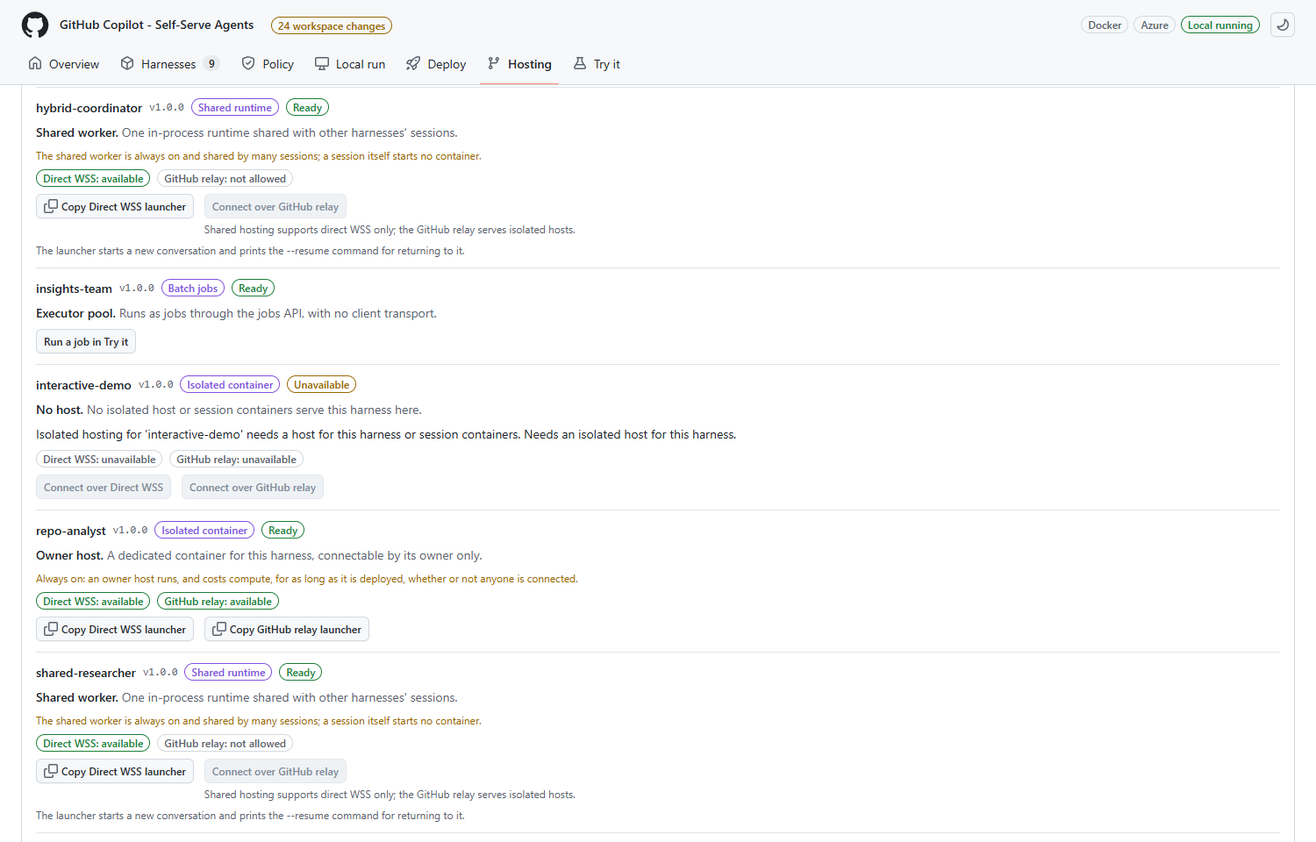
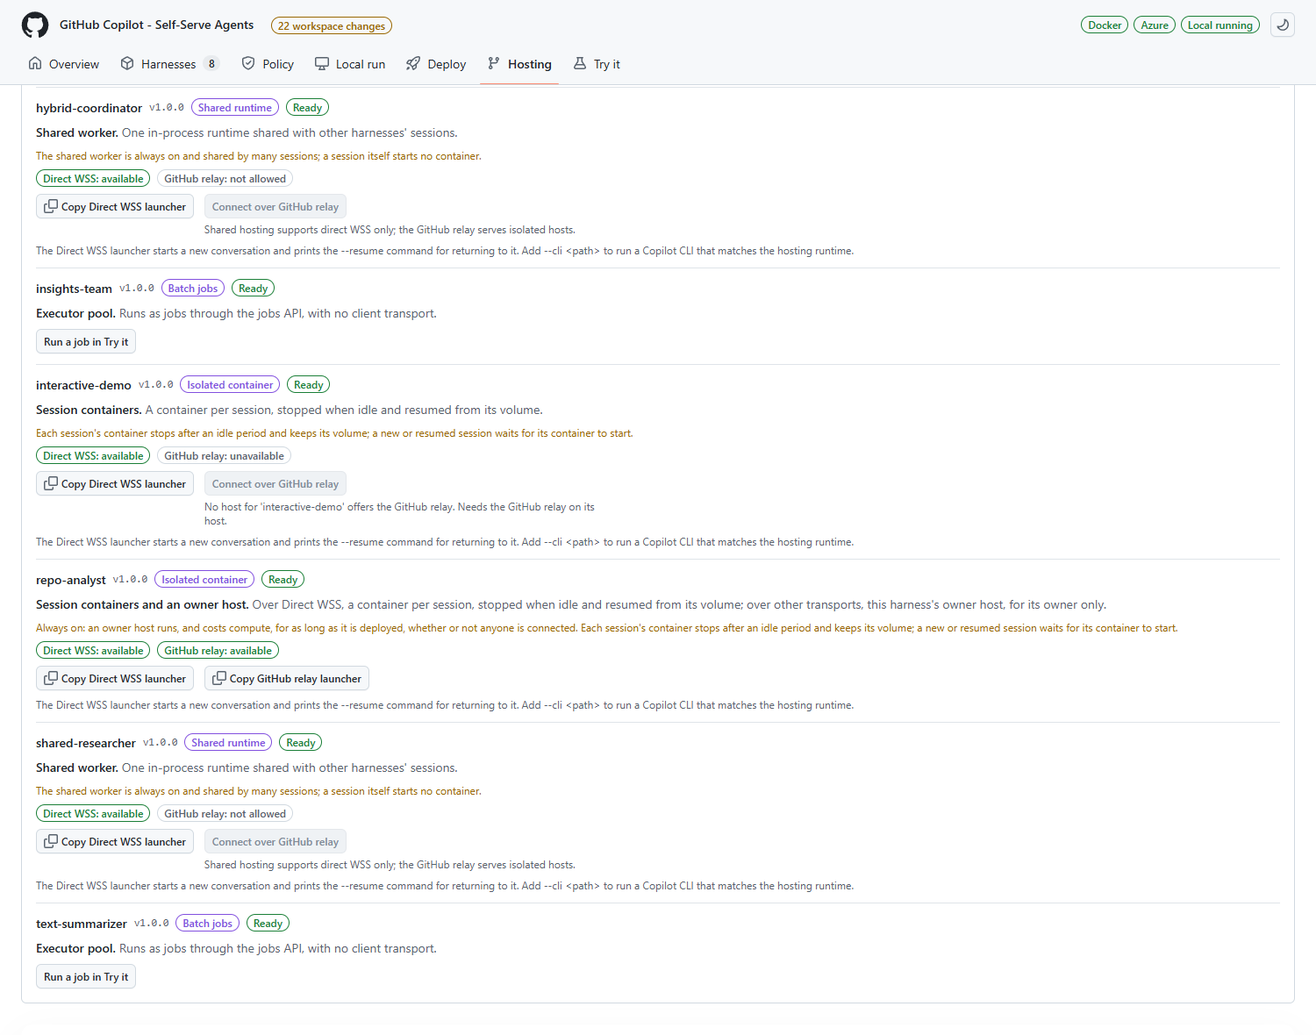
Offer session-container launchers on the Hosting page as the launcher routes them
Container-placed harnesses connect through session containers over every transport they
offer (direct WSS) and otherwise through the harness's owner host, matching
pnpm host:connect --harness. The relay stays disabled with the view's reason, and
session launchers explain --resume and --cli.

Copilot-Session: e44c3559-5f42-46f8-9476-8bb96f02afb0

Changed region(s): [[0.0, 0.0, 0.8893, 1.0], [0.828, 0.0, 0.9813, 0.0625]]

diff --git a/configurator/test/hosting.test.tsx b/configurator/test/hosting.test.tsx
@@ -4,7 +4,7 @@ import type { HarnessHostingView, HostingHostsView } from "../server/types";
 import { HostingDiagram } from "../src/components/HostingDiagram";
 import { harnessHostRow, hostingObservation, hostingPlacement, hostingTopology, HOSTING_HEIGHT, HOSTING_NODE_HEIGHT, HOSTING_NODE_WIDTH, HOSTING_WIDTH } from "../src/hosting";
 import { HostingView } from "../src/views/Hosting";
-import { HarnessHostingRows } from "../src/views/HostingHarnesses";
+import { HarnessHostingRow, HarnessHostingRows } from "../src/views/HostingHarnesses";
 
 vi.mock("../src/state", () => ({ useApp: () => ({
   settings: { local: { demoHost: { transport: "github", owner: "synthetic-owner" } }, targets: [] },
@@ -128,6 +128,18 @@ const transportUnsupported = {
   available: false,
   problem: { code: "transport_unsupported" as const, message: "Shared hosting supports direct WSS only; the GitHub relay serves isolated hosts." },
 };
+/** Session containers as agent-api reports them, and the relay view `evaluateHosting` gives an isolated harness they serve alone. */
+const sessionContainers: HostingHostsView = { executor: "pool", isolatedHosts: [], sessionContainers: { transports: ["direct"], features: [] } };
+const noRelay = {
+  transport: "github" as const,
+  allowed: true,
+  available: false,
+  problem: {
+    code: "hosting_unavailable" as const,
+    message: "No host for 'chat' offers the GitHub relay.",
+    prerequisite: { kind: "transport" as const, name: "github" as const },
+  },
+};
 
 describe("per-harness hosting rows", () => {
   it("connects to an owner host with the per-harness launcher and notes its always-on cost", () => {
@@ -146,7 +158,12 @@ describe("per-harness hosting rows", () => {
     const local = harnessHostRow(shared, sharedWorker, "local");
     expect(local.host).toBe("Shared worker");
     expect(local.costNote).toContain("a session itself starts no container");
-    expect(local.connections[0]).toEqual({ transport: "direct", label: "Direct WSS", command: "pnpm host:connect --harness chat --target local --transport direct" });
+    expect(local.connections[0]).toEqual({
+      transport: "direct",
+      label: "Direct WSS",
+      command: "pnpm host:connect --harness chat --target local --transport direct",
+      createsSession: true,
+    });
     expect(local.connections[1]?.disabledReason).toBe("Shared hosting supports direct WSS only; the GitHub relay serves isolated hosts.");
     expect(harnessHostRow(shared, sharedWorker, "azure").connections[0]?.disabledReason).toContain("locally only");
   });
@@ -161,9 +178,71 @@ describe("per-harness hosting rows", () => {
     expect(row.host).toBe("No shared worker");
     expect(row.connections[0]?.disabledReason).toBe("Shared hosting needs the shared worker. Needs the harness-driven shared worker.");
     expect(row.connections.every((connection) => !connection.command)).toBe(true);
-    const sessions = harnessHostRow(view({}), { executor: "pool", isolatedHosts: [], sessionContainers: { transports: ["direct"], features: [] } }, "local");
-    expect(sessions.host).toBe("Session containers");
-    expect(sessions.connections[0]?.disabledReason).toBe("The launcher cannot connect to per-session containers yet.");
+  });
+
+  it("connects to session containers over direct WSS locally, and keeps the relay disabled with its reason", () => {
+    const isolated = view({ transports: [{ transport: "direct", allowed: true, available: true }, noRelay] });
+    const local = harnessHostRow(isolated, sessionContainers, "local");
+    expect(local.host).toBe("Session containers");
+    expect(local.costNote).toBe(
+      "Each session's container stops after an idle period and keeps its volume; a new or resumed session waits for its container to start.",
+    );
+    expect(local.connections).toEqual([
+      { transport: "direct", label: "Direct WSS", command: "pnpm host:connect --harness chat --target local --transport direct", createsSession: true },
+      { transport: "github", label: "GitHub relay", disabledReason: "No host for 'chat' offers the GitHub relay. Needs the GitHub relay on its host." },
+    ]);
+    expect(harnessHostRow(isolated, sessionContainers, "azure").connections[0]).toEqual({
+      transport: "direct",
+      label: "Direct WSS",
+      disabledReason: "The launcher connects to session containers locally only; Azure qualification remains open.",
+    });
+  });
+
+  it("sends direct WSS to session containers and the relay to the owner host when both serve a harness", () => {
+    const hosts: HostingHostsView = { ...sessionContainers, isolatedHosts: [{ harness: "chat", transports: ["direct", "github"], features: [] }] };
+    const row = harnessHostRow(view({}), hosts, "local");
+    expect(row.host).toBe("Session containers and an owner host");
+    expect(row.hostDetail).toBe(
+      "Over Direct WSS, a container per session, stopped when idle and resumed from its volume; over other transports, this harness's owner host, for its owner only.",
+    );
+    expect(row.costNote).toContain("Always on");
+    expect(row.costNote).toContain("stops after an idle period");
+    expect(row.connections).toEqual([
+      { transport: "direct", label: "Direct WSS", command: "pnpm host:connect --harness chat --target local --transport direct", createsSession: true },
+      { transport: "github", label: "GitHub relay", command: "pnpm host:connect --harness chat --target local --transport github" },
+    ]);
+  });
+
+  it("does not offer session containers to a harness they cannot host", () => {
+    const problem = {
+      code: "hosting_unavailable" as const,
+      path: "mcpServers",
+      message: "No isolated host for 'chat' supports remote MCP servers yet.",
+      prerequisite: { kind: "feature" as const, name: "remote-mcp" as const },
+    };
+    const row = harnessHostRow(
+      view({ status: "unavailable", problems: [problem], transports: [{ transport: "direct", allowed: true, available: true }, noRelay] }),
+      sessionContainers,
+      "local",
+    );
+    expect(row.host).toBe("Session containers");
+    expect(row.connections.every((connection) => !connection.command)).toBe(true);
+    expect(row.connections[0]?.disabledReason).toBe("No isolated host for 'chat' supports remote MCP servers yet. Needs remote MCP support in its host.");
+  });
+
+  it("renders the session launcher with how to resume, and the relay's reason", () => {
+    const html = renderToStaticMarkup(
+      <HarnessHostingRow view={view({ transports: [{ transport: "direct", allowed: true, available: true }, noRelay] })} hosts={sessionContainers} target="local" />,
+    );
+    expect(html).toContain("Copy Direct WSS launcher");
+    expect(html).toContain('disabled="" title="No host for &#x27;chat&#x27; offers the GitHub relay. Needs the GitHub relay on its host.">Connect over GitHub relay');
+    expect(html).toContain("The Direct WSS launcher starts a new conversation and prints the --resume command for returning to it.");
+    expect(html).toContain("Add --cli &lt;path&gt; to run a Copilot CLI that matches the hosting runtime.");
+    const owner = renderToStaticMarkup(
+      <HarnessHostingRow view={view({})} hosts={{ executor: "pool", isolatedHosts: [{ harness: "chat", transports: ["direct", "github"], features: [] }] }} target="local" />,
+    );
+    expect(owner).toContain("Copy GitHub relay launcher");
+    expect(owner).not.toContain("--resume");
   });
 
   it("runs batch harnesses as jobs without client transports", () => {

diff --git a/configurator/src/views/HostingHarnesses.tsx b/configurator/src/views/HostingHarnesses.tsx
@@ -1,5 +1,5 @@
 import { useEffect, useState } from "react";
-import type { HostingPageInfo, TryTarget } from "../../server/types";
+import type { HarnessHostingView, HostingHostsView, HostingPageInfo, TryTarget } from "../../server/types";
 import { api, errorMessage } from "../api";
 import { Badge, CopyButton, Spinner } from "../components/ui";
 import { harnessHostRow } from "../hosting";
@@ -65,59 +65,68 @@ export function HarnessHostingRows({ target }: { target: TryTarget }) {
           </p>
         )}
         {overview && overview.harnesses.length === 0 && <p className="text-sm fg-muted">The service has no published harnesses.</p>}
-        {overview?.harnesses.map((view) => {
-          const row = harnessHostRow(view, overview.hosts, target);
-          const status = STATUS_BADGES[view.status];
-          const rowProblem = view.problems[0] ? describeProblem(view.problems[0]) : undefined;
-          return (
-            <div key={view.harness} className="space-y-2 border-b border-muted pb-3 last:border-b-0 last:pb-0">
-              <div className="flex flex-wrap items-center gap-2">
-                <span className="font-semibold">{view.harness}</span>
-                <span className="font-mono text-xs fg-muted">v{view.version}</span>
-                <Badge tone="done">{view.interaction === "batch" ? "Batch jobs" : MODE_INFO[view.mode].label}</Badge>
-                <Badge tone={status.tone}>{status.label}</Badge>
-              </div>
-              <p className="text-sm">
-                <span className="font-medium">{row.host}.</span> <span className="fg-muted">{row.hostDetail}</span>
-              </p>
-              {row.costNote && <p className="text-xs fg-attention">{row.costNote}</p>}
-              {rowProblem && <p className="text-sm">{rowProblem}</p>}
-              {view.transports.length > 0 && (
-                <div className="flex flex-wrap gap-2">
-                  {view.transports.map((transport) => (
-                    <Badge key={transport.transport} tone={transport.available && !rowProblem ? "green" : "neutral"} title={transport.problem?.message}>
-                      {TRANSPORT_INFO[transport.transport].label}: {transport.available ? "available" : transport.allowed ? "unavailable" : "not allowed"}
-                    </Badge>
-                  ))}
-                </div>
-              )}
-              <div className="flex flex-wrap items-start gap-3">
-                {view.interaction === "batch" ? (
-                  <button type="button" className="btn-secondary btn-sm" disabled={view.status !== "ready"} onClick={() => setView("try")}>
-                    Run a job in Try it
-                  </button>
-                ) : (
-                  row.connections.map((connection) =>
-                    connection.command ? (
-                      <CopyButton key={connection.transport} label={`Copy ${connection.label} launcher`} text={connection.command} />
-                    ) : (
-                      <div key={connection.transport} className="max-w-md">
-                        <button type="button" className="btn-secondary btn-sm" disabled title={connection.disabledReason}>
-                          Connect over {connection.label}
-                        </button>
-                        {connection.disabledReason !== rowProblem && <p className="mt-1 text-xs fg-muted">{connection.disabledReason}</p>}
-                      </div>
-                    ),
-                  )
-                )}
-              </div>
-              {view.placement === "shared" && row.connections.some((connection) => connection.command) && (
-                <p className="text-xs fg-muted">The launcher starts a new conversation and prints the --resume command for returning to it.</p>
-              )}
-            </div>
-          );
-        })}
+        {overview?.harnesses.map((view) => <HarnessHostingRow key={view.harness} view={view} hosts={overview.hosts} target={target} />)}
       </div>
     </section>
+  );
+}
+
+/** One harness's row: mode, status, host and cost, transports, and the launcher actions `harnessHostRow` derives. */
+export function HarnessHostingRow({ view, hosts, target }: { view: HarnessHostingView; hosts: HostingHostsView; target: TryTarget }) {
+  const { setView } = useApp();
+  const row = harnessHostRow(view, hosts, target);
+  const status = STATUS_BADGES[view.status];
+  const rowProblem = view.problems[0] ? describeProblem(view.problems[0]) : undefined;
+  const sessionLaunchers = row.connections.filter((connection) => connection.command && connection.createsSession).map((connection) => connection.label);
+  return (
+    <div className="space-y-2 border-b border-muted pb-3 last:border-b-0 last:pb-0">
+      <div className="flex flex-wrap items-center gap-2">
+        <span className="font-semibold">{view.harness}</span>
+        <span className="font-mono text-xs fg-muted">v{view.version}</span>
+        <Badge tone="done">{view.interaction === "batch" ? "Batch jobs" : MODE_INFO[view.mode].label}</Badge>
+        <Badge tone={status.tone}>{status.label}</Badge>
+      </div>
+      <p className="text-sm">
+        <span className="font-medium">{row.host}.</span> <span className="fg-muted">{row.hostDetail}</span>
+      </p>
+      {row.costNote && <p className="text-xs fg-attention">{row.costNote}</p>}
+      {rowProblem && <p className="text-sm">{rowProblem}</p>}
+      {view.transports.length > 0 && (
+        <div className="flex flex-wrap gap-2">
+          {view.transports.map((transport) => (
+            <Badge key={transport.transport} tone={transport.available && !rowProblem ? "green" : "neutral"} title={transport.problem?.message}>
+              {TRANSPORT_INFO[transport.transport].label}: {transport.available ? "available" : transport.allowed ? "unavailable" : "not allowed"}
+            </Badge>
+          ))}
+        </div>
+      )}
+      <div className="flex flex-wrap items-start gap-3">
+        {view.interaction === "batch" ? (
+          <button type="button" className="btn-secondary btn-sm" disabled={view.status !== "ready"} onClick={() => setView("try")}>
+            Run a job in Try it
+          </button>
+        ) : (
+          row.connections.map((connection) =>
+            connection.command ? (
+              <CopyButton key={connection.transport} label={`Copy ${connection.label} launcher`} text={connection.command} />
+            ) : (
+              <div key={connection.transport} className="max-w-md">
+                <button type="button" className="btn-secondary btn-sm" disabled title={connection.disabledReason}>
+                  Connect over {connection.label}
+                </button>
+                {connection.disabledReason !== rowProblem && <p className="mt-1 text-xs fg-muted">{connection.disabledReason}</p>}
+              </div>
+            ),
+          )
+        )}
+      </div>
+      {sessionLaunchers.length > 0 && (
+        <p className="text-xs fg-muted">
+          The {sessionLaunchers.join(" and ")} {sessionLaunchers.length > 1 ? "launchers start" : "launcher starts"} a new conversation and{" "}
+          {sessionLaunchers.length > 1 ? "print" : "prints"} the --resume command for returning to it. Add --cli &lt;path&gt; to run a Copilot CLI that
+          matches the hosting runtime.
+        </p>
+      )}
+    </div>
   );
 }

diff --git a/configurator/src/hosting.ts b/configurator/src/hosting.ts
@@ -162,6 +162,8 @@ export interface HarnessConnection {
   label: string;
   command?: string;
   disabledReason?: string;
+  /** The launcher creates an application session (shared worker or session container) and prints its --resume command. */
+  createsSession?: boolean;
 }
 
 /** What hosts a harness in one deployment, what keeps costing while idle, and how Copilot CLI connects. */
@@ -177,6 +179,14 @@ export function launcherCommand(harness: string, target: TryTarget, transport: "
   return `pnpm host:connect --harness ${harness} --target ${target} --transport ${transport}`;
 }
 
+const OWNER_HOST_COST = "Always on: an owner host runs, and costs compute, for as long as it is deployed, whether or not anyone is connected.";
+const SESSION_CONTAINER_COST = "Each session's container stops after an idle period and keeps its volume; a new or resumed session waits for its container to start.";
+
+/**
+ * A harness's host and connection actions as `pnpm host:connect --harness` routes them: shared placement goes to the
+ * shared worker; container placement goes to session containers over every transport they offer, and otherwise to
+ * the harness's owner host. The service's view decides what is available to the caller.
+ */
 export function harnessHostRow(view: HarnessHostingView, hosts: HostingHostsView, target: TryTarget): HarnessHostRow {
   if (view.interaction === "batch") {
     return {
@@ -189,15 +199,21 @@ export function harnessHostRow(view: HarnessHostingView, hosts: HostingHostsView
   let hostDetail: string;
   let costNote: string | undefined;
   const ownerHost = hosts.isolatedHosts.find((entry) => entry.harness === view.harness);
+  const sessionContainers = view.placement === "container" ? hosts.sessionContainers : undefined;
   if (view.placement === "container") {
-    if (ownerHost) {
+    if (sessionContainers && ownerHost) {
+      const over = sessionContainers.transports.map((transport) => TRANSPORT_INFO[transport].label).join(" and ");
+      host = "Session containers and an owner host";
+      hostDetail = `Over ${over}, a container per session, stopped when idle and resumed from its volume; over other transports, this harness's owner host, for its owner only.`;
+      costNote = `${OWNER_HOST_COST} ${SESSION_CONTAINER_COST}`;
+    } else if (ownerHost) {
       host = "Owner host";
       hostDetail = "A dedicated container for this harness, connectable by its owner only.";
-      costNote = "Always on: an owner host runs, and costs compute, for as long as it is deployed, whether or not anyone is connected.";
-    } else if (hosts.sessionContainers) {
+      costNote = OWNER_HOST_COST;
+    } else if (sessionContainers) {
       host = "Session containers";
       hostDetail = "A container per session, stopped when idle and resumed from its volume.";
-      costNote = "No idle compute; each new or resumed session waits for a container to start.";
+      costNote = SESSION_CONTAINER_COST;
     } else {
       host = "No host";
       hostDetail = "No isolated host or session containers serve this harness here.";
@@ -218,17 +234,23 @@ export function harnessHostRow(view: HarnessHostingView, hosts: HostingHostsView
   const blocking = view.problems[0];
   const connections = view.transports.map((transport): HarnessConnection => {
     const label = TRANSPORT_INFO[transport.transport].label;
+    const disabled = (disabledReason: string): HarnessConnection => ({ transport: transport.transport, label, disabledReason });
     const problem = blocking ?? transport.problem;
-    if (problem || !transport.available) {
-      return { transport: transport.transport, label, disabledReason: problem ? describeProblem(problem) : `${label} is not available.` };
+    if (problem || !transport.available) return disabled(problem ? describeProblem(problem) : `${label} is not available.`);
+    const command = launcherCommand(view.harness, target, transport.transport);
+    if (view.placement === "shared" || sessionContainers?.transports.includes(transport.transport)) {
+      // The launcher creates application sessions on the local stack only.
+      if (target !== "local") {
+        return disabled(
+          view.placement === "shared"
+            ? "The launcher connects to shared hosting locally only; Azure qualification remains open."
+            : "The launcher connects to session containers locally only; Azure qualification remains open.",
+        );
+      }
+      return { transport: transport.transport, label, command, createsSession: true };
     }
-    if (view.placement === "shared") {
-      return target === "local"
-        ? { transport: transport.transport, label, command: launcherCommand(view.harness, target, transport.transport) }
-        : { transport: transport.transport, label, disabledReason: "The launcher connects to shared hosting locally only; Azure qualification remains open." };
-    }
-    if (ownerHost) return { transport: transport.transport, label, command: launcherCommand(view.harness, target, transport.transport) };
-    return { transport: transport.transport, label, disabledReason: "The launcher cannot connect to per-session containers yet." };
+    if (ownerHost?.transports.includes(transport.transport)) return { transport: transport.transport, label, command };
+    return disabled(`No host here offers the ${label}.`);
   });
   return { host, hostDetail, ...(costNote ? { costNote } : {}), connections };
 }

diff --git a/configurator/test/hosting-server.test.ts b/configurator/test/hosting-server.test.ts
@@ -206,6 +206,25 @@ describe("configurator hosting routes", () => {
     expect(body.stale).toEqual(expect.arrayContaining([{ harness: "interactive-demo", version: "1.0.0", reason: "missing" }]));
   });
 
+  it("keeps the session-container offer that the Hosting page's launcher actions follow", async () => {
+    const deployment: HostingDeployment = { executor: "pool", isolatedHosts: [], sessionContainers: { transports: ["direct"], features: [] } };
+    const overview = serviceView([conversation("chat")], deployment, { base: policy, overrides: new Map() });
+    fetcher.mockResolvedValueOnce({ status: 200, body: overview });
+    const body = (await app.inject({ method: "GET", url: "/api/hosting?target=local", headers })).json();
+    expect(body.overview.hosts.sessionContainers).toEqual({ transports: ["direct"], features: [] });
+    // The fixtures in hosting.test.tsx mirror this view: direct WSS is ready, and the relay names its missing transport.
+    expect(body.overview.harnesses[0]).toMatchObject({ harness: "chat", placement: "container", status: "ready", problems: [] });
+    expect(body.overview.harnesses[0].transports).toEqual([
+      { transport: "direct", allowed: true, available: true },
+      {
+        transport: "github",
+        allowed: true,
+        available: false,
+        problem: { code: "hosting_unavailable", message: "No host for 'chat' offers the GitHub relay.", prerequisite: { kind: "transport", name: "github" } },
+      },
+    ]);
+  });
+
   it("says why the view is unavailable instead of evaluating hosting itself", async () => {
     fetcher.mockResolvedValueOnce({ status: 404, body: {} });
     const body = (await app.inject({ method: "GET", url: "/api/hosting?target=azure", headers })).json();

diff --git a/configurator/src/hostingText.ts b/configurator/src/hostingText.ts
@@ -69,7 +69,10 @@ export const APPROVAL_INFO: Record<ApprovalMode, { label: string; detail: string
 export const APPROVAL_ORDER = Object.keys(APPROVAL_INFO) as ApprovalMode[];
 
 export const TRANSPORT_INFO: Record<HostingTransport, { label: string; detail: string }> = {
-  direct: { label: "Direct WSS", detail: "Copilot CLI connects straight to the host with a one-use ticket and a pinned server key." },
+  direct: {
+    label: "Direct WSS",
+    detail: "Copilot CLI connects over WebSocket with a one-use ticket and a pinned server key: through the connection broker for shared and session-container sessions, or straight to an owner host.",
+  },
   github: { label: "GitHub relay", detail: "Copilot CLI attaches through Mission Control. Isolated hosts only, for their owner." },
 };
 

diff --git a/docs/CONFIGURATOR.md b/docs/CONFIGURATOR.md
@@ -140,17 +140,21 @@ local hybrid path, and the separately labeled, unqualified Azure hybrid proposal
 **Harness hosting** rows come from the chosen target's agent-api and its read-only
 [hosting views](API.md#hosting-views): local rows while the local stack runs, or the selected Azure target's
 deployed API. Each row shows the effective mode or batch jobs, the status with the first blocking problem and its
-prerequisite, the host (executor pool, owner host, session containers, or shared worker) with a cost note that says
-when the host is always on, and the client transports with whether policy allows them and the host provides them.
+prerequisite, the host (executor pool, owner host, session containers, or shared worker) with a cost note (always-on
+compute for owner hosts and the shared worker; idle stop and start-up waits for session containers), and the client
+transports with whether policy allows them and the host provides them.
 Harness versions saved in the workspace that the service has not loaded, or has loaded with different content, are
 listed above the rows: **Reload harnesses** from Local run, or deploy, to apply them. The rows start no hosts and grant
 no connections.
 
 Connection actions copy a `pnpm host:connect --harness <name> --target <local|azure> --transport <direct|github>`
-launcher command for a ready harness whose transport is available: on an owner host the service reports for that
-harness, or on the local shared worker, which accepts direct connections only. Otherwise the action is disabled and
-says why: the row's problem and prerequisite, an unavailable transport, per-session containers the launcher cannot
-reach yet, or shared hosting on Azure, which is not qualified. Batch rows link to **Try it** instead.
+launcher command for a ready harness whose transport is available, following the launcher's routing: shared
+harnesses use the local shared worker, and isolated harnesses use [session containers](DEPLOYMENT.md#session-containers)
+over the transports they offer (direct WSS), otherwise the harness's owner host. For the shared worker and session
+containers, the launcher creates a conversation and prints the `--resume` command for returning to it; add
+`--cli <path>` to run a Copilot CLI that matches the hosting runtime. Otherwise the action is disabled and says why:
+the row's problem and prerequisite, an unavailable transport (session containers do not offer the GitHub relay), or a
+shared-worker or session-container connection on Azure, which is not qualified. Batch rows link to **Try it** instead.
 
 Choose local or the selected Azure target, select a node to inspect its responsibility and limitations, or
 expand the text connection map. The canvas groups components into color-coded responsibility zones, highlights
